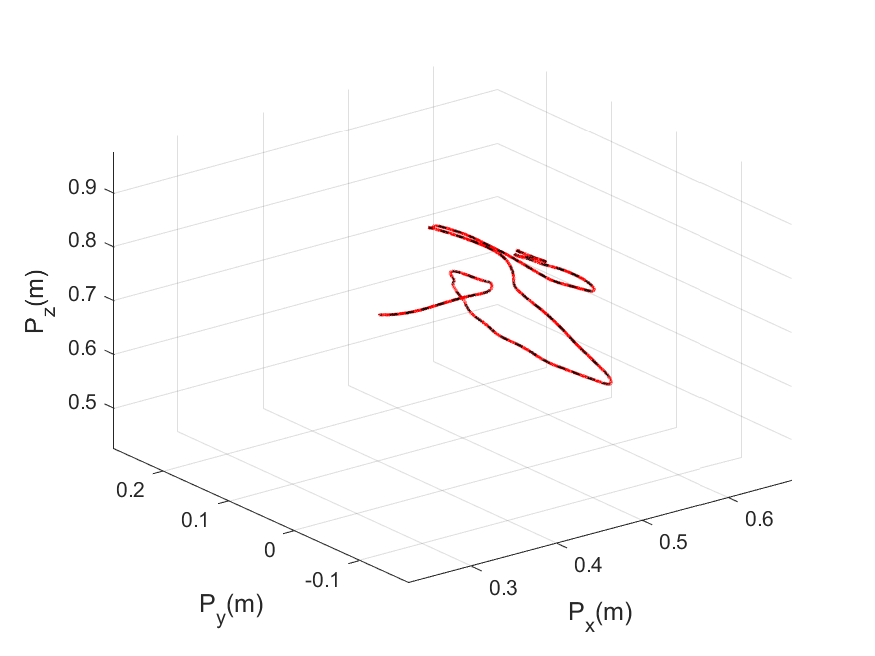
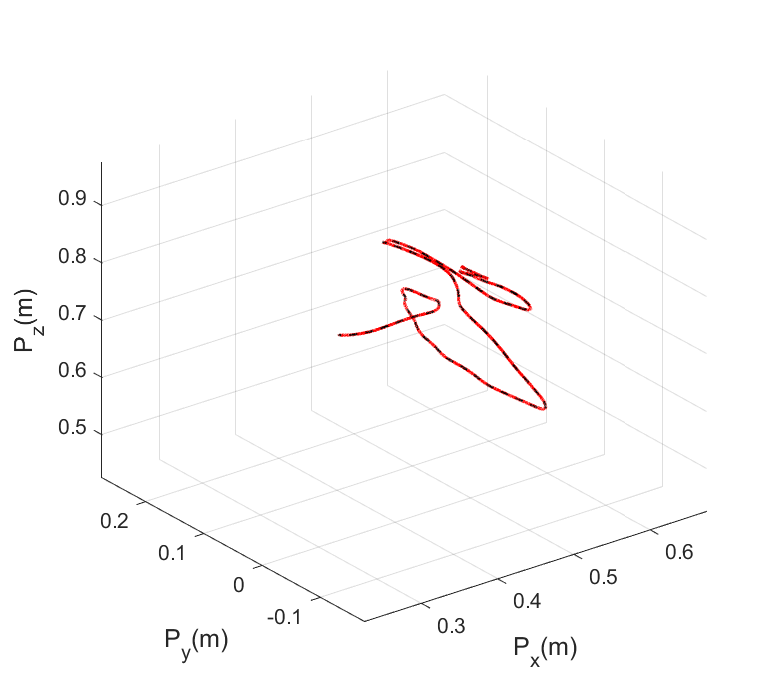
update controller

diff --git a/1. main_cartesian_impedance_control.m b/1. main_cartesian_impedance_control.m
@@ -1,0 +1,142 @@
+% Copyright (C) 2021 All rights reserved.
+% Authors:     Seonghyeon Jo <cpsc.seonghyeon@gmail.com>
+%
+% Date:        Des, 23, 2021
+% 
+% -------------------------------------------------
+% Cartesian Impedance Controller
+% Franka Emika Robot
+% -------------------------------------------------
+%
+% the following code has been tested on Matlab 2021a
+%%
+clc; clear;
+addpath(genpath('.'));
+
+% reference joint catersian(euler)
+test_name = "catesian_imp";
+folder_name = "real_data\";
+
+% Simulation setup
+sim_time = 5;
+sim_period = 0.001;
+t = 0:sim_period:sim_time;
+sample_size = size(t, 2);
+
+% Create a virtual reference trajectory
+init_q = [-0.0001   -0.7855    0.0001   -2.3566   -0.0003    3.1419    0.7852]';
+[init_p, init_R]=get_pose(init_q);
+z1 = atan2(init_R(2,3),init_R(1,3));
+y = atan2(sqrt(init_R(1,3)^2 + init_R(2,3)^2), init_R(3,3));
+z2 = atan2(init_R(3,2), - init_R(3,1)); 
+init_eul= [z2 y z1]';
+ref_x = zeros(sample_size, 6);
+ref_xd = zeros(sample_size, 6);
+ref_xdd = zeros(sample_size, 6);
+ref_x(:, 1:3) = [init_p(1)*ones(sample_size,1)'; init_p(2) + 0.2*sin(t); init_p(3) + 0.2*(cos(t) - 1)]';
+ref_x(:, 4:6) = init_eul'.* ones(sample_size, 3);
+ref_xd(:, 1:3) = [zeros(sample_size,1)'; 0.2*cos(t); -0.2*sin(t)]';
+ref_xdd(:, 1:3) = [zeros(sample_size,1)'; -0.2*sin(t); -0.2*cos(t)]';
+
+% ext_force
+f_ext = zeros(sample_size, 6);
+f_ext(1001:2000, 1) = sin((0.001:0.001:1)*2*pi)*10;
+
+% Impedance Gain
+Md = diag([1 1 1 1 1 1]'); 
+Kd = diag([20 25 25 200 200 200]'*50); 
+Bd = sqrt(Kd)*0.75;
+
+% Initialization
+x = [init_q; zeros(7,1)];
+
+% control loop
+for i=1:sample_size
+    q = x(1:7,i);
+    qd = x(8:14,i);
+    
+    % Franka Kinematics
+    % joint space -> task space(euler)
+    [p, R]=get_pose(q);
+    z1 = atan2(R(2,3),R(1,3));
+    y = atan2(sqrt(R(1,3)^2 + R(2,3)^2), R(3,3));
+    z2 = atan2(R(3,2), - R(3,1)); 
+    eul = [z2 y z1]';
+    car_pos(i,:) = [p; eul];
+    
+    % Model
+    M = get_MassMatrix(q);
+    J = get_JacobianZ2YZ1(q);
+    J_dot = get_Jacobian_dot(q, qd);
+    
+    % Cartesian Error
+    e = (ref_x(i,:) - car_pos(i,:))';
+    e_dot = ref_xd(i,:)' - J*qd;
+    
+    % model feedback linearization 
+    % Computing time too long
+    % c = get_CoriolisVector(q, qd); 
+    % G = get_GravityVector(q);
+    % F = get_FrictionTorque(qd);
+    
+    % input
+    u = M*pinv(J)*(ref_xdd(i,:)+inv(Md)*Bd*(e_dot)+inv(Md)*Kd*e+inv(Md)*f_ext(i,:)'-J_dot*qd)-J'*f_ext(i,:)';   % use simple_rk and simple_plant
+    % u = M*pinv(J)*(ref_xdd(i,:)+inv(Md)*Bd*(e_dot)+inv(Md)*Kd*e+inv(Md)*f_ext(i,:)'-J_dot*qd)-J'*f_ext(i,:)';    % use rk and plant
+    
+    if(i ~= sample_size)
+        % rk
+        x(:,i+1) = simple_rk(x(:,i), u, sim_period);
+        % x(:,i+1) = rk(x(:,i), u, sim_period);
+        
+        % int
+        % x(:, i+1) = x(:, i) + 0.001*(simple_plant(x(:,i), u));
+        % x(:, i+1) = x(:, i) + 0.001*(plant(x(:,i), u));
+    end
+end
+
+% plotting 
+% figure 1 : Time 2D Plot
+figure(1)
+tiledlayout(3,3,'TileSpacing','Compact','Padding','Compact');
+set(gcf,'color','w');
+ylabel_name = ["p_x(m)", "p_y(m)", "p_z(m)", "r_z", "r_y", "r_z"];
+for i=1:6
+    ax = nexttile;
+    hold off
+    plot(t, ref_x(:,i),'-r','LineWidth',1.5')
+    hold on
+    plot(t, car_pos(:,i),'--k','LineWidth',1.')
+    xlabel('Time (sec)', 'FontSize', 10)
+    ylabel(ylabel_name{i}, 'FontSize', 10);
+    ax = gca;
+    r = 0.025;
+    xlim([t(1) t(sample_size)]);
+    ylim([ax.YLim(1)-r ax.YLim(2)+r])
+    grid on
+end
+legend('ref','cur')
+lgd = legend;
+lgd.Layout.Tile =9;
+lgd.FontSize = 11;
+fig_name = "fig\control_"+test_name+".png";
+saveas(gcf,fig_name);
+
+% plotting 
+% figure 2: 3D Cartesian Pose Plot
+figure(2)
+tiledlayout(1,1,'TileSpacing','Compact','Padding','Compact');
+set(gcf,'color','w');
+nexttile
+hold off
+plot3(ref_x(:,1), ref_x(:,2),ref_x(:,3),'-r','LineWidth',1.5')
+hold on
+plot3(car_pos(:,1), car_pos(:,2),car_pos(:,3),'--k','LineWidth',1')
+scale = 0.00075;
+legend('ref x', 'cur x','Location','northeast')
+lgd = legend;
+lgd.FontSize = 11;
+axis([0.275 0.375 -0.5 0.5 0.1 1]);
+xlabel('p_x(m)', 'FontSize', 10)
+ylabel("p_y(m)", 'FontSize', 10);
+zlabel('p_z(m)', 'FontSize', 10)
+grid on;

diff --git a/1. main_cartesian_pd_control_playback.m b/1. main_cartesian_pd_control_playback.m
@@ -1,0 +1,118 @@
+% Copyright (C) 2021 All rights reserved.
+% Authors:     Seonghyeon Jo <cpsc.seonghyeon@gmail.com>
+%
+% Date:        Des, 23, 2021
+% 
+% -------------------------------------------------
+% Cartesian PD Controler
+% Franka Emika Robot
+% -------------------------------------------------
+%
+% the following code has been tested on Matlab 2021a
+%%
+clc; clear;
+addpath(genpath('.'));
+
+% reference joint catersian(euler)
+test_name = "catesianPD_playback";
+folder_name = "real_data\";
+ref_q = table2array(readtable(folder_name+"[210618]joint_postion.csv"));
+des_x = table2array(readtable(folder_name+"[210618]cartesian_quat.csv"));
+
+% convent from quat to euler
+sample_size = length(des_x);
+for i=1:sample_size
+    R = quat2rotm([des_x(i,7) des_x(i,4) des_x(i,5) des_x(i,6)]);
+    z1 = atan2(R(2,3),R(1,3));
+    y = atan2(sqrt(R(1,3)^2 + R(2,3)^2), R(3,3));
+    z2 = atan2(R(3,2), - R(3,1)); 
+    eul(i,:) = [z2 y z1]';
+end
+des_x = [des_x(1:sample_size,1:3), eul];
+
+
+% Simulation setup
+sim_period = 0.001;
+sim_time = sample_size*sim_period;
+t = 0.001:sim_period:sim_time;
+sample_size = size(t, 2);
+
+% % Cartesian PD Gain 
+% Kp=[10 10 10 0.1 0.1 0.1]'*100;
+% Kd=sqrt(Kp)*0.5;
+% Cartesian PD Gain 
+Kp=[20 10 10 1 1 1]'*100;
+Kd=sqrt(Kp)*0.75;
+
+% Initialization
+x = [ref_q(1, :)'; zeros(7,1)];
+
+% control loop
+for i=1:sample_size
+    q = x(1:7,i);
+    qd = x(8:14,i);
+    
+    % Franka Kinematics
+    % joint space -> task space(euler)
+    [p, R]=get_pose(q);
+    z1 = atan2(R(2,3),R(1,3));
+    y = atan2(sqrt(R(1,3)^2 + R(2,3)^2), R(3,3));
+    z2 = atan2(R(3,2), - R(3,1)); 
+    eul = [z2 y z1]';
+    car_pos(i,:) = [p; eul];
+    
+    % Cartesian Error
+    e = des_x(i,:) - car_pos(i,:);
+
+    % Model
+    M = get_MassMatrix(q);
+    J = get_JacobianZ2YZ1(q);
+    
+    % model feedback linearization 
+    % Computing time too long
+    % c = get_CoriolisVector(q, qd); 
+    % G = get_GravityVector(q);
+    % F = get_FrictionTorque(qd);
+    
+    % input
+    u = M*J'*(Kp.*(e') + Kd.*(J*(-qd)));                    % use simple_rk and simple_plant
+    % u = M*pinv(J)*(Kp.*(e) + Kd.*(-J*qd)) + c + G + F;    % use rk and plant
+    
+    if(i ~= sample_size)
+        % rk
+        x(:,i+1) = simple_rk(x(:,i), u, sim_period);
+        % x(:,i+1) = rk(x(:,i), u, sim_period);
+        
+        % int
+        % x(:, i+1) = x(:, i) + 0.001*(simple_plant(x(:,i), u));
+        % x(:, i+1) = x(:, i) + 0.001*(plant(x(:,i), u));
+    end
+end
+
+
+% plotting 
+% figure 1 : Time 2D Plot
+figure(1)
+tiledlayout(3,3,'TileSpacing','Compact','Padding','Compact');
+set(gcf,'color','w');
+ylabel_name = ["p_x(m)", "p_y(m)", "p_z(m)", "r_z", "r_y", "r_z"];
+for i=1:6
+    ax = nexttile;
+    hold off
+    plot(t, des_x(:,i),'-r','LineWidth',1.5')
+    hold on
+    plot(t, car_pos(:,i),'--k','LineWidth',1.')
+    xlabel('Time (sec)', 'FontSize', 10)
+    ylabel(ylabel_name{i}, 'FontSize', 10);
+    ax = gca;
+    r = 0.5;
+    xlim([t(1) t(sample_size)]);
+    ylim([ax.YLim(1)-r ax.YLim(2)+r])
+    grid on
+end
+legend('real','cal')
+lgd = legend;
+lgd.Layout.Tile = 9;
+lgd.FontSize = 11;
+fig_name = "fig\control_"+test_name+".png";
+saveas(gcf,fig_name);

diff --git a/1. main_simple_pd_control_playback.m b/1. main_simple_pd_control_playback.m
@@ -1,10 +1,10 @@
-% Copyright (C) 2021 Electronics and Telecommunications Research Institute(ETRI). All rights reserved.
-% Authors:     Seonghyeon Jo <seonghyeonjo@etri.re.kr>
+% Copyright (C) 2021 All rights reserved.
+% Authors:     Seonghyeon Jo <cpsc.seonghyeon@gmail.com>
 %
-% Date:        Ang, 10, 2021
+% Date:        Des, 23, 2021
 % 
 % -------------------------------------------------
-% Simple PD Controler
+% Simple PD Controler playback
 % Franka Emika Robot
 % -------------------------------------------------
 %
@@ -14,14 +14,15 @@ clc; clear;
 addpath(genpath('.'));
 
 % reference trajectory - real franka data
+test_name = "simplePD_playback";
 folder_name = "real_data\";
-ref_q = table2array(readtable(folder_name+"[210618]joint_postion_data.csv"));
+ref_q = table2array(readtable(folder_name+"[210618]joint_postion.csv"));
 sample_size = length(ref_q);
 
 % simulation
 sim_period = 0.001;
 sim_time = sample_size*sim_period;
-t = 0:sim_period:sim_time;
+t = 0.001:sim_period:sim_time;
 sample_size = size(t, 2);
 
 % PD gain 
@@ -31,7 +32,7 @@ Kd=sqrt(Kp)*0.5;
 x = [ref_q(1, :)'; zeros(7,1)];
 
 % control loop
-for i=1:sample_size-1
+for i=1:sample_size
     q = x(1:7,i);
     qd = x(8:14,i);
     
@@ -45,9 +46,10 @@ for i=1:sample_size-1
     % G = get_GravityVector(q);
     % F = get_FrictionTorque(qd);
     
+    
     % input
     u = (Kp.*(e) + Kd.*(ed));                 % use simple_rk and simple_plant
-    % u = (Kp.*(e) + Kd.*(ed)) + c + G + F;   % use rk and plant
+    % u = (Kp.*(e) + Kd.*(ed)) + c + G + F;       % use rk and plant
     
     
     if(i ~= sample_size)
@@ -61,14 +63,30 @@ for i=1:sample_size-1
     end
 end
 
-% Plotting
+
+% plotting 
+% figure 1 : Time 2D Plot
 figure(1)
+tiledlayout(3,3,'TileSpacing','Compact','Padding','Compact');
 set(gcf,'color','w');
+% ylabel_name = ["q_1(rad)", "p_y(m)", "p_z(m)", "r_x", "r_y", "r_z", "r_w"];
 for i=1:7
-    subplot(7,1,i)
+    ax = nexttile;
     hold off
-    plot(ref_q(:,i),'-k','LineWidth',1.5')
-    hold on;
-    plot(x(i,:),'--r','LineWidth',1.5')
-    grid on;
+    plot(t, ref_q(:,i),'-r','LineWidth',1.5')
+    hold on
+    plot(t, x(i,:),'--k','LineWidth',1.')
+    xlabel('Time (sec)', 'FontSize', 10)
+    ylabel("q_"+num2str(i)+"(rad)", 'FontSize', 10);
+    ax = gca;
+    r = 0.5;
+    xlim([t(1) t(sample_size)]);
+    ylim([ax.YLim(1)-r ax.YLim(2)+r])
+    grid on
 end
+legend('ref','cur')
+lgd = legend;
+lgd.Layout.Tile = 9;
+lgd.FontSize = 11;
+fig_name = "fig\control_"+test_name+".png";
+saveas(gcf,fig_name);

diff --git a/README.md b/README.md
@@ -20,13 +20,26 @@ This repository is a MATLAB simulation of franka emika panda robot control using
   + simple_plant.m :  robot manipulator plant 함수 <img src="https://render.githubusercontent.com/render/math?math=\ddot{\q}%20=%20\M^{-1}(\q)(\boldsymbol\tau)&mode=inline">
   + rk.m /simple_rk.m :  Runge-Kutta 함수
 
-- main_cartesian_pd_control.m : Cartesian PD controller code
+- 0. test_model_kinematics.m : kinematics test code
 
-- main_impedance_control.m : Cartesian Impedance Controller Code
+- 0. test_model_jacobain.m : jacobian test Code
 
-- main_simple_pd_control.m : Simple PD controller code
+- 0. test_model_dot_jacobain.m : jacobian dot  test Code
 
- 
+- 1. main_cartesian_pd_control_playback.m : Cartesian PD controller code
+
+- 1. main_impedance_control.m : Cartesian Impedance Controller Code
+
+- 1. main_simple_pd_control_playback.m : Simple PD controller code
+
+## Controller
+- simple pd controller
+- <img src="./fig/control_simplePD_playback.png" alt="control_simplePD_playback"  width="450" /> 
+- catesian pd controller
+- <img src="./fig/control_catesianPD_playback.png" alt="control_catesianPD_playback"  width="450" /> 
+- position based impendace controller
+- <img src="./fig/control_catesian_imp.png" alt="control_catesian_imp"  width="450" /> 
+
 
  ## Kinematics Test
 
